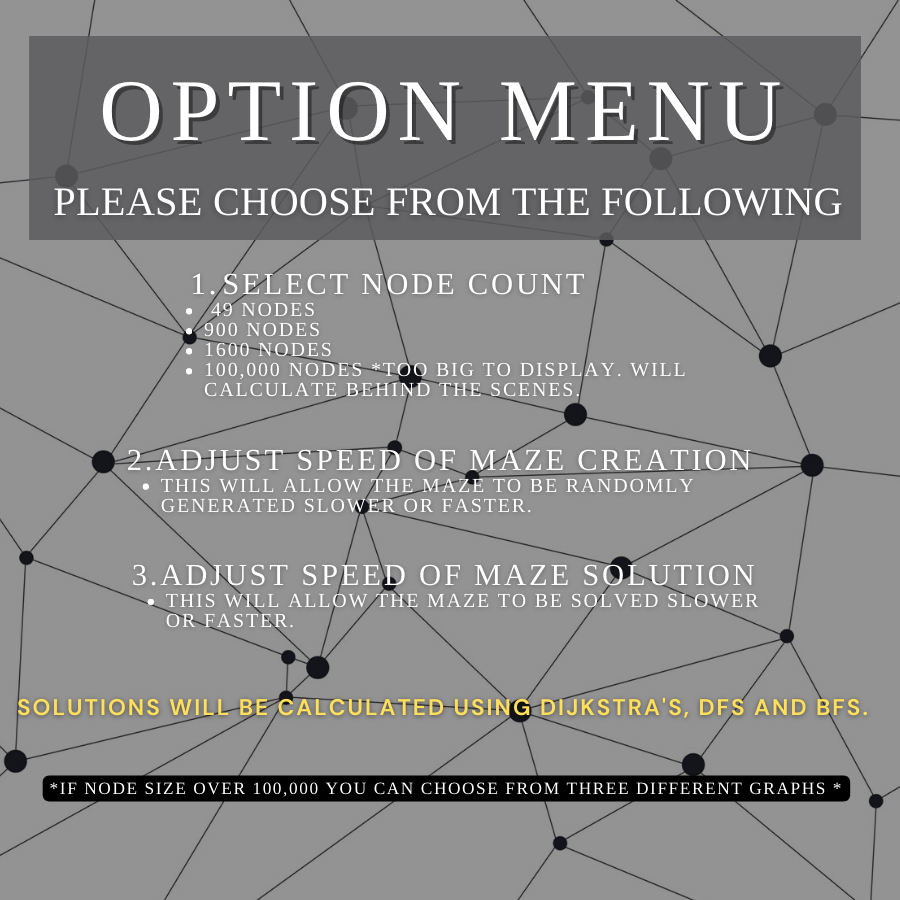
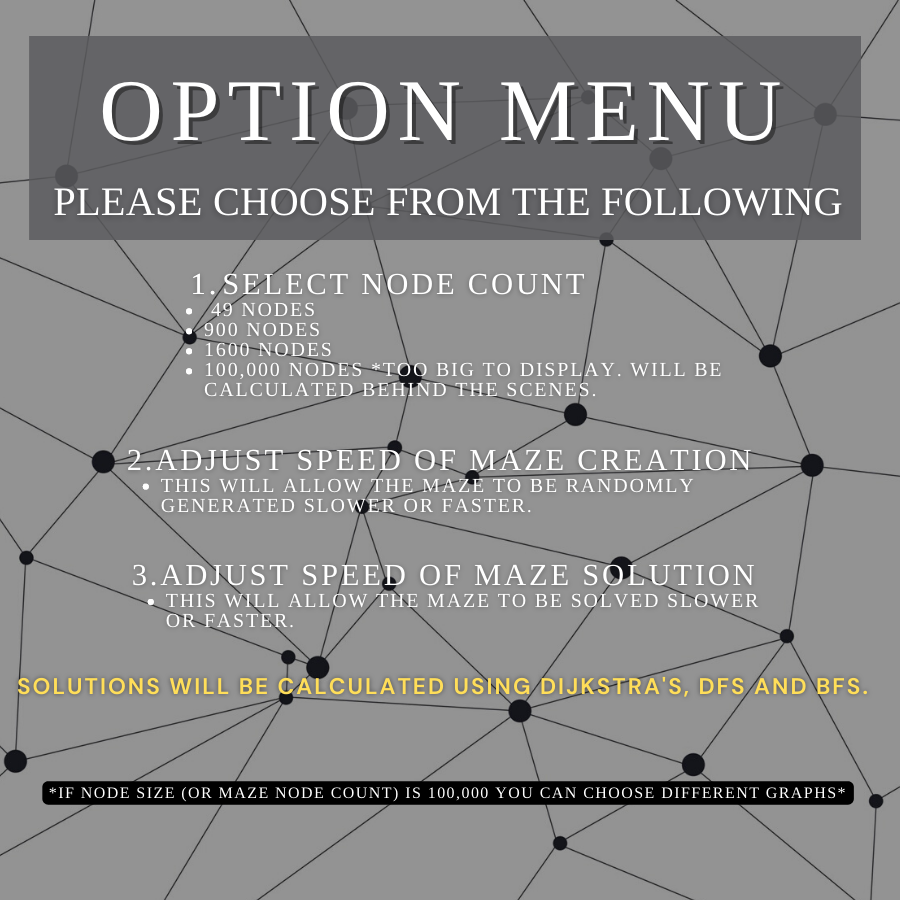
Fixed the text error and added some few lines to functions. Edited the BFS function, tired to implement A* search but that didnt work correctly... Ready for video

diff --git a/main.py b/main.py
@@ -442,6 +442,8 @@ def theMainMaze():
 
         shortest_time = execution_time_dijkstra
         winning_algo = 'Dijkstra'
+
+        #add conditions for a* algoithm
         if execution_time_dijkstra == execution_time_BFS:
             if execution_time_dijkstra == execution_time_DFS:
                 winning_algo = 'It is a tie!'
@@ -546,36 +548,40 @@ def theMainMaze():
 
     #  custom breadth first search algorithm
     def breadth_first_search() -> []:
-        previous_node_dictionary = {}
-        node_queue = [1]
+
+        global BFS_visited_nodes
+        visited_node_dictionary = {}
+        queueOfNodes = [1]
         maze_solution_temp = []
         maze_solution = []
         visited_nodes_set = set()
         visited_nodes_set.add(1)
-        global BFS_visited_nodes
+        
         BFS_visited_nodes = 1
         current_node = 1
 
-        while node_queue:
+        while queueOfNodes:
 
-            if len(node_queue) == 0:
+            if len(queueOfNodes) == 0:
                 break
-            x = len(node_queue)
+                #there are no nodes so we break the while loop.
+
+            x = len(queueOfNodes)
 
             for i in range(0, x):
-                current_node = node_queue.pop()
-                for nbr in mazeGraph.adj[current_node].items():
-                    if nbr[0] not in visited_nodes_set:
-                        node_queue.append(nbr[0])
-                        visited_nodes_set.add(nbr[0])
+                current_node = queueOfNodes.pop()
+                for j in mazeGraph.adj[current_node].items():
+                    if j[0] not in visited_nodes_set:
+                        queueOfNodes.append(j[0])
+                        visited_nodes_set.add(j[0])
                         BFS_visited_nodes += 1
-                        previous_node_dictionary[nbr[0]] = current_node
-                        if nbr[0] == global_node_count:
+                        visited_node_dictionary[j[0]] = current_node
+                        if j[0] == global_node_count:
                             #  maze is solved
-                            current_node = nbr[0]
+                            current_node = j[0]
                             while True:
                                 maze_solution_temp.append(current_node)
-                                current_node = previous_node_dictionary.get(current_node)
+                                current_node = visited_node_dictionary.get(current_node)
                                 if current_node == 1:
                                     maze_solution_temp.append(1)
                                     x = len(maze_solution_temp)
@@ -586,6 +592,7 @@ def theMainMaze():
 
     # custom written Dijkstra's algorithm for shortest path, Group 1 COP3530
     # uses some lines of code from Stepik Module 8.2 Dijkstra's Shortest Paths From Source Vertex to all Vertices
+
     def abbreviatedDijkstra() -> []:
         # Dijkstra variables
         global sumPath
@@ -642,8 +649,6 @@ def theMainMaze():
     pygame.mixer.music.load('assets/Intro-Music.mp3')
     pygame.mixer.music.set_volume(0.5)
     pygame.mixer.music.play(-1)
-
-    # UNCOMMENT LATER.
 
     # will execute all 3 algorithms on currently selected maze size (Dijkstra, BFS, DFS)
     # results output visually for smaller mazes, times only for 100k size
